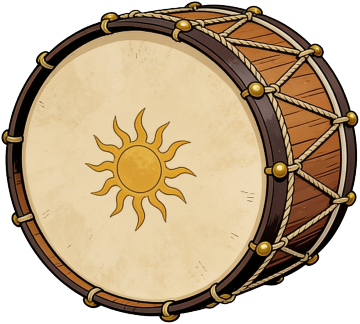
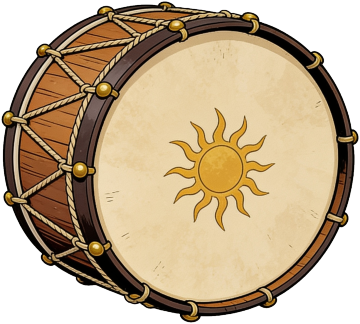
Quest 24: Große Trommel gespiegelt
Claude-Session: https://claude.ai/code/session_013ksHH1RN3knNHjnsFznGtM

diff --git a/index.html b/index.html
@@ -9,7 +9,7 @@
 <meta name="robots" content="noindex">
 <link rel="preconnect" href="https://fonts.googleapis.com"><link rel="preconnect" href="https://fonts.gstatic.com" crossorigin>
 <link href="https://fonts.googleapis.com/css2?family=Grenze+Gotisch:wght@500;700;800&family=Alegreya:ital,wght@0,400;0,500;0,700;1,400&family=Alegreya+SC:wght@500;700&family=Caveat:wght@500;700&display=swap" rel="stylesheet">
-<link rel="stylesheet" href="style.css?v=1794206999">
+<link rel="stylesheet" href="style.css?v=1794207087">
 </head>
 <body>
 
@@ -59,27 +59,27 @@
 <div id="sheet" class="ovl sheet"></div>
 <div id="toast" class="toast"></div>
 
-<script src="gate.js?v=1794206999"></script>
-<script src="engine.js?v=1794206999"></script>
-<script src="scene.js?v=1794206999"></script>
-<script src="dice.js?v=1794206999"></script>
-<script src="items.js?v=1794206999"></script>
-<script src="battle.js?v=1794206999"></script>
-<script src="ui.js?v=1794206999"></script>
-<script src="slyr.js?v=1794206999"></script>
-<script src="games.js?v=1794206999"></script>
-<script src="malen.js?v=1794206999"></script>
-<script src="takt.js?v=1794206999"></script>
-<script src="bossgames.js?v=1794206999"></script>
-<script src="films.js?v=1794206999"></script>
-<script src="days1.js?v=1794206999"></script>
-<script src="days2.js?v=1794206999"></script>
-<script src="days3.js?v=1794206999"></script>
-<script src="days4.js?v=1794206999"></script>
-<script src="hero.js?v=1794206999"></script>
-<script src="qrcode.js?v=1794206999"></script>
-<script src="komplize.js?v=1794206999"></script>
-<script src="urkunde.js?v=1794206999"></script>
-<script src="main.js?v=1794206999"></script>
+<script src="gate.js?v=1794207087"></script>
+<script src="engine.js?v=1794207087"></script>
+<script src="scene.js?v=1794207087"></script>
+<script src="dice.js?v=1794207087"></script>
+<script src="items.js?v=1794207087"></script>
+<script src="battle.js?v=1794207087"></script>
+<script src="ui.js?v=1794207087"></script>
+<script src="slyr.js?v=1794207087"></script>
+<script src="games.js?v=1794207087"></script>
+<script src="malen.js?v=1794207087"></script>
+<script src="takt.js?v=1794207087"></script>
+<script src="bossgames.js?v=1794207087"></script>
+<script src="films.js?v=1794207087"></script>
+<script src="days1.js?v=1794207087"></script>
+<script src="days2.js?v=1794207087"></script>
+<script src="days3.js?v=1794207087"></script>
+<script src="days4.js?v=1794207087"></script>
+<script src="hero.js?v=1794207087"></script>
+<script src="qrcode.js?v=1794207087"></script>
+<script src="komplize.js?v=1794207087"></script>
+<script src="urkunde.js?v=1794207087"></script>
+<script src="main.js?v=1794207087"></script>
 </body>
 </html>

diff --git a/takt.js b/takt.js
@@ -19,7 +19,7 @@ GAMES.takt=()=>new Promise(async done=>{hideBox();
  document.body.appendChild(o);requestAnimationFrame(()=>o.classList.add('on'));
  const $o=s=>o.querySelector(s),stg=$o('.rk-st'),notesEl=$o('.rk-notes'),pads=[...o.querySelectorAll('.rk-pad')],arms=[...o.querySelectorAll('.rk-arm')],pop=$o('.rk-pop'),comboEl=$o('.rk-combo'),meter=$o('.tk2-meter i');
  // Ego Ansicht: Instrumente im Bogen vor Zirpia, Spuren laufen von oben auf die Trommelfelle zu
- const INS=[{cx:.21,cy:.805,w:.46,hx:.397,hy:.526,rx:.328,ry:.403,ar:324/360},{cx:.445,cy:.715,w:.21,hx:.504,hy:.157,rx:.405,ry:.132,ar:360/274},{cx:.645,cy:.735,w:.21,hx:.503,hy:.157,rx:.399,ry:.132,ar:360/276},{cx:.845,cy:.585,w:.3,hx:.498,hy:.495,rx:.48,ry:.478,ar:330/360}];
+ const INS=[{cx:.17,cy:.805,w:.46,hx:.603,hy:.526,rx:.328,ry:.403,ar:324/360},{cx:.445,cy:.715,w:.21,hx:.504,hy:.157,rx:.405,ry:.132,ar:360/274},{cx:.645,cy:.735,w:.21,hx:.503,hy:.157,rx:.399,ry:.132,ar:360/276},{cx:.845,cy:.585,w:.3,hx:.498,hy:.495,rx:.48,ry:.478,ar:330/360}];
  const rings=[...o.querySelectorAll('.rk-ring')],stand=$o('.rk-stand'),hw=$o('.rk-hw');let TG=[],OR=[];
  const layout=()=>{const W=stg.clientWidth,H=stg.clientHeight;
   TG=INS.map((d,i)=>{const w=d.w*W,h=w*d.ar,l=d.cx*W-w/2,t=d.cy*H-h/2;const p=pads[i];p.style.left=l+'px';p.style.top=t+'px';p.style.width=w+'px';p.style.height=h+'px';return {x:l+d.hx*w,y:t+d.hy*h,rx:d.rx*w,ry:d.ry*h,r:Math.min(d.rx*w,d.ry*h)}});
